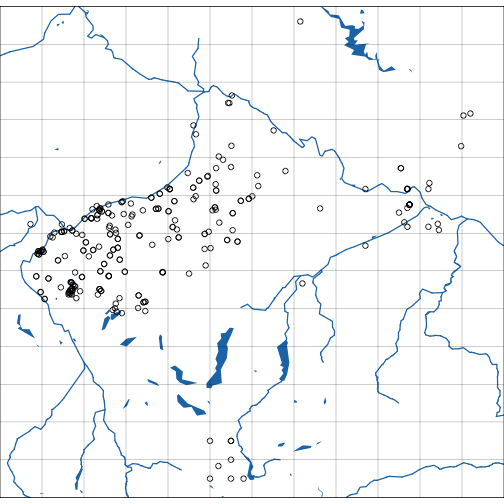
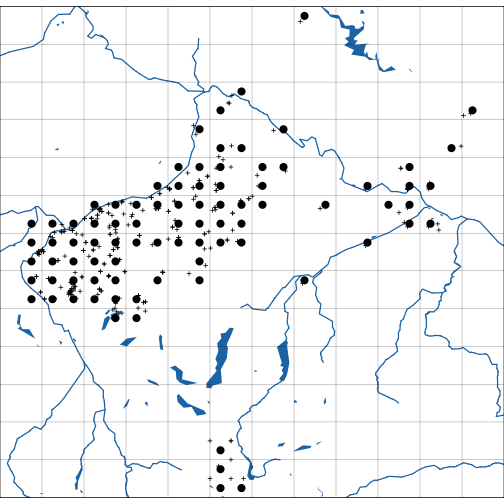
update

diff --git a/example.md b/example.md
@@ -385,16 +385,16 @@ bergfex(lng = 13, lat = 47)
 ## $data
 ##        ID                          Name      Staat
 ## 1 1359799                  Sandfeldkopf           
-## 2 1374765                Schwarzseekopf           
-## 3 1376962             Bogenitzenscharte           
-## 4 1376987                       Saukopf           
+## 2 1376987                       Saukopf           
+## 3 1374765                Schwarzseekopf           
+## 4 1376962             Bogenitzenscharte           
 ## 5 1880001 Sandfeldkopf von Innerfragant Österreich
 ## 6 1396583                     Weißensee           
 ##                        Region Hoehe GeoBreite GeoLaenge ID_GeoPunkteTypen
 ## 1 Kärnten/Spittal an der Drau 2920m 46.998797 13.004404              7304
-## 2 Kärnten/Spittal an der Drau 2825m 47.007982 13.004767              7305
-## 3 Kärnten/Spittal an der Drau 2665m 46.992739 12.996400              7305
-## 4 Kärnten/Spittal an der Drau 2786m 46.996248 13.008342              7305
+## 2 Kärnten/Spittal an der Drau 2786m 46.996248 13.008342              7305
+## 3 Kärnten/Spittal an der Drau 2825m 47.007982 13.004767              7305
+## 4 Kärnten/Spittal an der Drau 2665m 46.992739 12.996400              7305
 ## 5                     Kärnten       46.998726 13.004258                29
 ## 6 Kärnten/Spittal an der Drau 2543m 47.007632 12.998010              7514
 ##                                   Typ Level
@@ -476,11 +476,15 @@ o <- occurrences(r)
 
 # configure a background based on the extent of class `Occurrences`
 e <- pretty(extent(o), resolution = "GRID")
+# skip the creation of a relief map
 g <- background(e, reliefmap = FALSE)
 
-# plot background and points
+# plot background
 plot(g)
-points(o)
+# plot coordinates
+plot(o, type = "ASIS", pch = 3, cex = 0.5)
+# plot occupied grid cells only
+plot(o, type = "GRIDCELL", pch = 16, cex = 1.5)
 ```
 
 ![*A map with occurence points and background*.](figure/database2-1.png)
